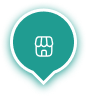
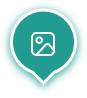
added events to locations and changed event widget

Changed region(s): [[0.3448, 0.3061, 0.6437, 0.5816]]

diff --git a/lib/screens/main/maps/map_screen.dart b/lib/screens/main/maps/map_screen.dart
@@ -2,6 +2,7 @@ import 'package:flutter/material.dart';
 import 'package:flutter_map/flutter_map.dart';
 import 'package:latlong2/latlong.dart';
 import 'package:netourism_mobile_app/constants/current_location.dart';
+import 'package:netourism_mobile_app/services/location_names_service.dart';
 import 'package:netourism_mobile_app/widgets/toast_widget.dart';
 import '/constants/constants.dart';
 import '/services/events/images_upload.dart';
@@ -49,6 +50,7 @@ class _MapScreenState extends State<MapScreen> {
   }
 
   Future<void> getImages(LatLng location, BuildContext context) async {
+    print("object");
     //StoriesScreen
     List<String> imagePaths =
         await fetchImages(location); //LatLng(33.7011138, -7.3621081)
@@ -56,6 +58,8 @@ class _MapScreenState extends State<MapScreen> {
       ToastWidget.showToast(context: context, text: "Oups! no event to show");
       return;
     }
+    Map<String, String> locationName =
+        await fetchLocationDetails(location.latitude, location.longitude);
     print(imagePaths);
     List<Story> stories = imagePaths
         .map((e) => Story(
@@ -74,7 +78,10 @@ class _MapScreenState extends State<MapScreen> {
     Navigator.of(context).push(
       SlideLeftRouteWidget(
         //StoriesScreen(userStories: userStories)
-        GroupStories(userStories: userStories),
+        GroupStories(
+            userStories: userStories,
+            cityName: locationName["city"] ?? "",
+            countryName: locationName["country"] ?? ""),
       ),
     );
   }
@@ -90,6 +97,7 @@ class _MapScreenState extends State<MapScreen> {
   }
 
   Future<void> getCurentEventsLocations() async {
+    print("vall ");
     eventLocations = await fetchLocations();
   }
 
@@ -142,7 +150,7 @@ class _MapScreenState extends State<MapScreen> {
                   options: MapOptions(
                     minZoom: 5,
                     maxZoom: 16,
-                    zoom: 11,
+                    zoom: 13,
                     center: centerLocation,
                     onTap: (tapPosition, point) async {
                       debugPrint(
@@ -162,8 +170,22 @@ class _MapScreenState extends State<MapScreen> {
                     ),
                     MarkerLayer(
                       markers: eventLocations
-                          .map(
-                            (e) => Marker(
+                          .map((e) => Marker(
+                                    width: 40, //5 * mapController.zoom
+                                    height: 40,
+                                    point: e,
+                                    builder: (context) {
+                                      return SizedBox(
+                                        child: Image.asset(
+                                          "assets/images/marker.png",
+                                          height: 150,
+                                          fit: BoxFit.contain,
+                                        ),
+                                      );
+                                    },
+                                  )
+
+                              /*Marker(
                               point: e,
                               width: 10,
                               height: 10,
@@ -176,8 +198,8 @@ class _MapScreenState extends State<MapScreen> {
                                   ),
                                 );
                               },
-                            ),
-                          )
+                            ),*/
+                              )
                           .toList()
                       /*
                   Marker(

diff --git a/lib/screens/main/stories/stories_screen.dart b/lib/screens/main/stories/stories_screen.dart
@@ -9,8 +9,13 @@ import 'widgets/infos_story_widget.dart';
 import 'widgets/progress_bar_widget.dart';
 
 class StoriesScreen extends StatefulWidget {
-  const StoriesScreen({super.key, required this.userStories});
-
+  const StoriesScreen(
+      {super.key,
+      required this.userStories,
+      required this.countryName,
+      required this.cityName});
+  final String countryName;
+  final String cityName;
   final UserStories userStories;
 
   @override
@@ -303,8 +308,8 @@ class _StoriesScreenState extends State<StoriesScreen>
                               child: Column(
                                 mainAxisAlignment: MainAxisAlignment.start,
                                 crossAxisAlignment: CrossAxisAlignment.start,
-                                children: const [
-                                  Text(
+                                children: [
+                                  const Text(
                                     "A wonderful moments we're living",
                                     overflow: TextOverflow.ellipsis,
                                     style: TextStyle(
@@ -312,12 +317,12 @@ class _StoriesScreenState extends State<StoriesScreen>
                                         fontWeight: FontWeight.bold,
                                         color: Colors.white),
                                   ),
-                                  SizedBox(
+                                  const SizedBox(
                                     height: 2,
                                   ),
                                   Text(
-                                    "Riad Essalam - Mohammedia",
-                                    style: TextStyle(
+                                    "${widget.cityName} - ${widget.countryName}",
+                                    style: const TextStyle(
                                         fontSize: 10, color: Colors.white),
                                   ),
                                 ],

diff --git a/lib/services/location_names_service.dart b/lib/services/location_names_service.dart
@@ -1,0 +1,40 @@
+import 'package:dio/dio.dart';
+import 'package:flutter/foundation.dart';
+import 'package:netourism_mobile_app/constants/secret.dart';
+
+Future<Map<String, String>> fetchLocationDetails(
+    double latitude, double longitude) async {
+  // Replace with your Mapbox access token
+  final String endpoint =
+      'https://api.mapbox.com/geocoding/v5/mapbox.places/$longitude,$latitude.json?access_token=$mapboxAccessToken';
+
+  final Dio dio = Dio();
+  try {
+    final response = await dio.get(endpoint);
+    if (response.statusCode == 200) {
+      final data = response.data;
+      // Parse the data to extract city and country
+      final features = data['features'] as List<dynamic>;
+      if (features.isNotEmpty) {
+        final firstFeature = features[0];
+        final context = firstFeature['context'] as List<dynamic>;
+        late String city;
+        late String country;
+        for (var contextItem in context) {
+          final contextType = contextItem['id'].toString();
+          if (contextType.startsWith('place')) {
+            city = contextItem['text'].toString();
+          } else if (contextType.startsWith('country')) {
+            country = contextItem['text'].toString();
+          }
+        }
+        debugPrint('city: $city, country: $country');
+        return {'city': city, 'country': country};
+      }
+    }
+  } catch (e) {
+    print('Error fetching location details: $e');
+  }
+  return {'city': "city", 'country': "country"};
+  ;
+}

diff --git a/lib/screens/main/stories/widgets/stories_navigation_widget.dart b/lib/screens/main/stories/widgets/stories_navigation_widget.dart
@@ -8,7 +8,13 @@ import '../../../../../../../../data/users_stories_data.dart';
 class GroupStories extends StatefulWidget {
   // final List<String> usersIds;
   final UserStories userStories;
-  const GroupStories({super.key, required this.userStories});
+  final String countryName;
+  final String cityName;
+  const GroupStories(
+      {super.key,
+      required this.userStories,
+      required this.countryName,
+      required this.cityName});
   @override
   State<GroupStories> createState() => _GroupStoriesState();
 }
@@ -51,8 +57,11 @@ class _GroupStoriesState extends State<GroupStories>
                   itemBuilder: (context, index) {
                     //    UserStories userStories =
                     //    getUserStoriesById(widget.usersIds[index]);
-                    final StoriesScreen story =
-                        StoriesScreen(userStories: widget.userStories);
+                    final StoriesScreen story = StoriesScreen(
+                      userStories: widget.userStories,
+                      cityName: widget.cityName,
+                      countryName: widget.countryName,
+                    );
                     // Calculate the rotation angle based on the current page index and scrolling direction
                     final isLeaving = (index - value) <= 0;
                     final t = (index - value);

diff --git a/lib/services/events/images_upload.dart b/lib/services/events/images_upload.dart
@@ -31,18 +31,17 @@ Future<http.StreamedResponse> updateProfile(File? data) async {
 
 Future<List<String>> fetchImages(LatLng location) async {
   final url =
-      '$getImegesByLocationUri/${location.latitude}/${location.longitude}/300';
+      '$getImegesByLocationUri/${location.latitude}/${location.longitude}/750';
 
   try {
     final response = await http.get(Uri.parse(url));
-
+    if (response.statusCode != 200) {
+      return [];
+    }
     if (response.statusCode == 200) {
       // If the request is successful, parse the response body
       final Map<String, dynamic> responseData = json.decode(response.body);
-      final int status = responseData['message']['status'];
-      if (status != 200) {
-        return [];
-      }
+
       // Extract the "imagePaths" list from the response
       final List<dynamic> imagePaths = responseData['message']['imagePaths'];
 
@@ -56,6 +55,7 @@ Future<List<String>> fetchImages(LatLng location) async {
       throw Exception('Failed to load images');
     }
   } catch (e) {
+    return [];
     // Handle any exceptions that occurred during the request
     throw Exception('Error: $e');
   }
